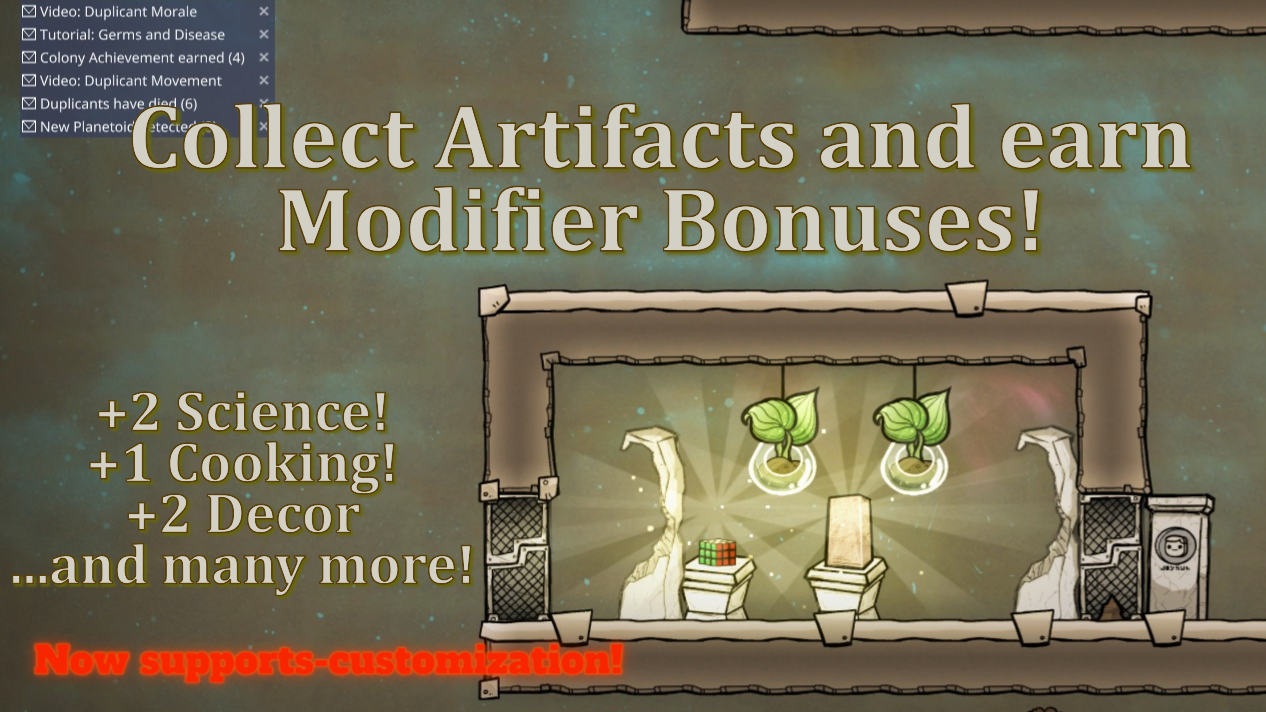
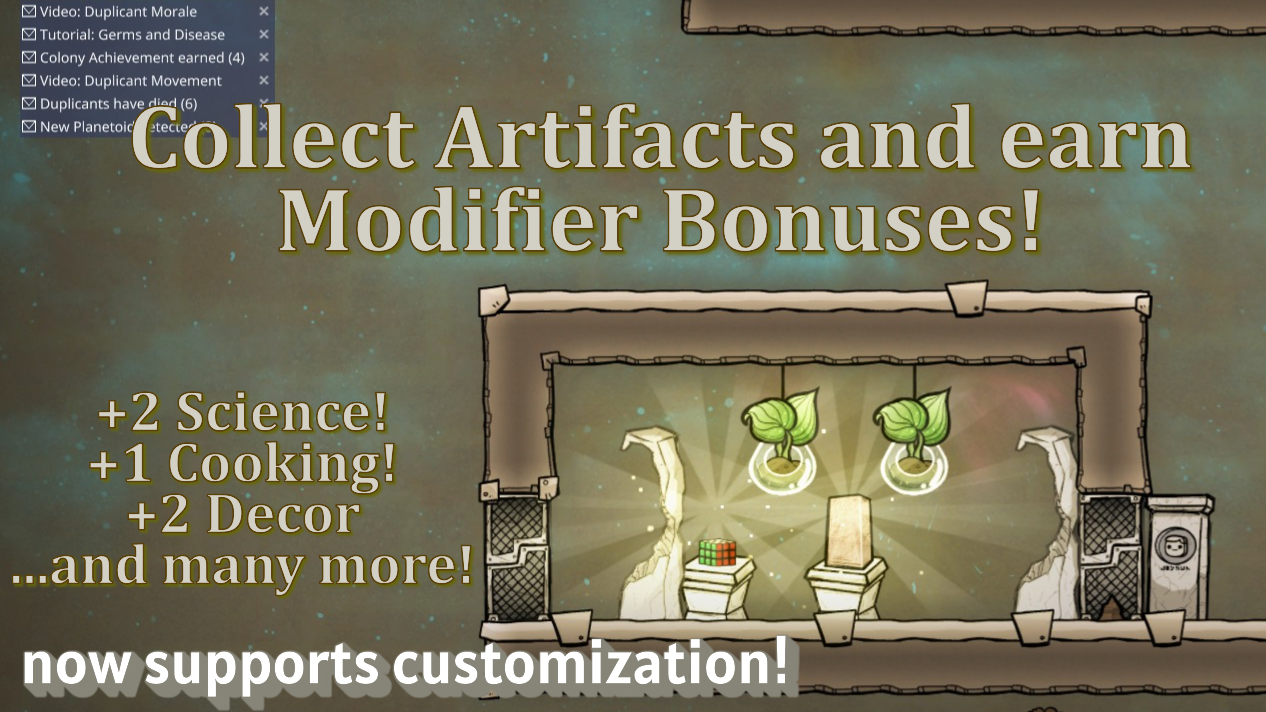
update readme and image.

Changed region(s): [[0.0, 0.8961, 0.6469, 1.0]]

diff --git a/ArtifactsPlus/README.md b/ArtifactsPlus/README.md
@@ -43,80 +43,80 @@ Modifiers can stack! Go ahead and collect and activate as many coffee mugs as yo
 
 __List of Current InGame Artifacts (as of July 2025)__
 
-artifact_sink
-artifact_rubikscube
-artifact_obelisk
-artifact_blender
-artifact_reactormodel
-artifact_sandstone
-artifact_officemug
-artifact_okayxray
-artifact_moldavite
-artifact_vhs
-artifact_saxophone
-artifact_modernart
-artifact_honeyjar
-artifact_ameliaswatch
-artifact_teapot
-artifact_brickphone
-artifact_robotarm
-artifact_shieldgenerator
-artifact_bioluminescentrock
-artifact_grubstatue
-artifact_stethoscope
-artifact_eggrock
-artifact_hatchfossil
-artifact_rocktornado
-artifact_pacupercolator
-artifact_magmalamp
-artifact_oracle
-artifact_dnamodel
-artifact_rainboweggrock
-artifact_plasmalamp
-artifact_moodring
-artifact_solarsystem
-artifact_moonmoonmoon
+- **artifact_sink**
+- **artifact_rubikscube**
+- **artifact_obelisk**
+- **artifact_blender**
+- **artifact_reactormodel**
+- **artifact_sandstone**
+- **artifact_officemug**
+- **artifact_okayxray**
+- **artifact_moldavite**
+- **artifact_vhs**
+- **artifact_saxophone**
+- **artifact_modernart**
+- **artifact_honeyjar**
+- **artifact_ameliaswatch**
+- **artifact_teapot**
+- **artifact_brickphone**
+- **artifact_robotarm**
+- **artifact_shieldgenerator**
+- **artifact_bioluminescentrock**
+- **artifact_grubstatue**
+- **artifact_stethoscope**
+- **artifact_eggrock**
+- **artifact_hatchfossil**
+- **artifact_rocktornado**
+- **artifact_pacupercolator**
+- **artifact_magmalamp**
+- **artifact_oracle**
+- **artifact_dnamodel**
+- **artifact_rainboweggrock**
+- **artifact_plasmalamp**
+- **artifact_moodring**
+- **artifact_solarsystem**
+- **artifact_moonmoonmoon**
 
 __List of Attributes That Can Be Modified:__
 
-AirConsumptionRate: Air Consumption Rate (Air Consumption determines how much Oxygen a Duplicant requires per minute to live.)
-Art: Creativity (Determines how quickly a Duplicant produces Artwork.)
-Athletics: Athletics (Determines a Duplicant's default runspeed.)
-BionicBatteryCountCapacity: Power Banks (The number of power banks this Bionic Duplicant can store)
-BionicBoosterSlots: Booster Slots (The number of boosters this Bionic Duplicant can install at once)
-Botanist: Agriculture (Determines how quickly and efficiently a Duplicant cultivates Plants.)
-Caring: Medicine (Determines a Duplicant's ability to care for sick peers.)
-CarryAmount: Carrying Capacity (Determines the maximum weight that a Duplicant can carry.)
-Construction: Construction (Determines a Duplicant's building Speed.)
-Cooking: Cuisine (Determines how quickly a Duplicant prepares Food.)
-Decor: Decor (Affects a Duplicant's Morale and their opinion of their surroundings.)
-DecorExpectation: Decor Morale Bonus (A Decor Morale Bonus allows Duplicants to receive Morale boosts from lower Decor values.)
-Digging: Excavation (Determines a Duplicant's mining speed.)
-DiseaseCureSpeed: Disease Recovery Speed Bonus (Recovery speed bonus is increased when another Duplicant provides medical care to the patient)
-DoctoredLevel: Treatment Received Effect
-FoodExpectation: Food Morale Bonus (A Food Morale Bonus allows Duplicants to receive Morale boosts from lower quality Food)
-GeneratorOutput: Power Output
-GermResistance: Germ Resistance (Duplicants with a higher Germ Resistance rating are less likely to contract germ-based Diseases.)
-Immunity: Immunity (Determines a Duplicant's Disease susceptibility and recovery time.)
-Insulation: Insulation (Highly Insulated Duplicants retain body heat easily, while low Insulation Duplicants are easier to keep cool.)
-Learning: Science (Determines how quickly a Duplicant conducts Research and gains Skill Points.)
-LifeSupport: Life Support (Determines how efficiently a Duplicant maintains Algae Terrariums, Deodorizers, and Water Sieves)
-Luminescence: Luminescence (Determines how much light a Duplicant emits.)
-Machinery: Machinery (Determines how quickly a Duplicant uses machines.)
-MachinerySpeed: Machinery Speed (Speed Bonus)
-MaxUnderwaterTravelCost: Underwater Movement (Determines a Duplicant's runspeed when submerged in Liquid)
-QualityOfLife: Morale (A Duplicant's Morale must exceed their Morale Need, or they'll begin to accumulate Stress.)
-QualityOfLifeExpectation: Morale Need (Dictates how high a Duplicant's Morale must be kept to prevent them from gaining Stress)
-RadiationRecovery: Radiation Absorption (The rate at which Radiation is neutralized within a Duplicant body.)
-RadiationResistance: Radiation Resistance (Determines how easily a Duplicant repels Radiation Sickness.)
-Ranching: Husbandry (Determines how efficiently a Duplicant tends Critters.)
-RoomTemperaturePreference: Temperature Preference (Determines the minimum body Temperature a Duplicant prefers to maintain.)
-ScaldingThreshold: Scalding Threshold (Determines the Temperature at which a Duplicant will get burned.)
-ScoldingThreshold: Frostbite Threshold (Determines the Temperature at which a Duplicant will get frostbitten.)
-Sneezyness: Sneeziness (Determines how frequently a Duplicant sneezes.)
-SpaceNavigation: Piloting (Determines how long it takes a Duplicant to complete a space mission.)
-Strength: Strength (Determines a Duplicant's Carrying Capacity and cleaning speed.)
-ThermalConductivityBarrier: Insulation Thickness (Determines how quickly a Duplicant retains or loses body Heat in any given area.)
-Toggle: Toggle (Determines how efficiently a Duplicant tunes machinery, flips switches, and sets sensors.)
-ToiletEfficiency: Bathroom Use Speed (Determines how long a Duplicant needs to do their "business".)
-TransitTubeTravelSpeed: Transit Speed (Determines a Duplicant's default Transit Tube travel speed.)
+- **AirConsumptionRate**: Air Consumption Rate (Air Consumption determines how much Oxygen a Duplicant requires per minute to live.)
+- **Art**: Creativity (Determines how quickly a Duplicant produces Artwork.)
+- **Athletics**: Athletics (Determines a Duplicant's default runspeed.)
+- **BionicBatteryCountCapacity**: Power Banks (The number of power banks this Bionic Duplicant can store)
+- **BionicBoosterSlots**: Booster Slots (The number of boosters this Bionic Duplicant can install at once)
+- **Botanist**: Agriculture (Determines how quickly and efficiently a Duplicant cultivates Plants.)
+- **Caring**: Medicine (Determines a Duplicant's ability to care for sick peers.)
+- **CarryAmount**: Carrying Capacity (Determines the maximum weight that a Duplicant can carry.)
+- **Construction**: Construction (Determines a Duplicant's building Speed.)
+- **Cooking**: Cuisine (Determines how quickly a Duplicant prepares Food.)
+- **Decor**: Decor (Affects a Duplicant's Morale and their opinion of their surroundings.)
+- **DecorExpectation**: Decor Morale Bonus (A Decor Morale Bonus allows Duplicants to receive Morale boosts from lower Decor values.)
+- **Digging**: Excavation (Determines a Duplicant's mining speed.)
+- **DiseaseCureSpeed**: Disease Recovery Speed Bonus (Recovery speed bonus is increased when another Duplicant provides medical care to the patient)
+- **DoctoredLevel**: Treatment Received Effect
+- **FoodExpectation**: Food Morale Bonus (A Food Morale Bonus allows Duplicants to receive Morale boosts from lower quality Food)
+- **GeneratorOutput**: Power Output
+- **GermResistance**: Germ Resistance (Duplicants with a higher Germ Resistance rating are less likely to contract germ-based Diseases.)
+- **Immunity**: Immunity (Determines a Duplicant's Disease susceptibility and recovery time.)
+- **Insulation**: Insulation (Highly Insulated Duplicants retain body heat easily, while low Insulation Duplicants are easier to keep cool.)
+- **Learning**: Science (Determines how quickly a Duplicant conducts Research and gains Skill Points.)
+- **LifeSupport**: Life Support (Determines how efficiently a Duplicant maintains Algae Terrariums, Deodorizers, and Water Sieves)
+- **Luminescence**: Luminescence (Determines how much light a Duplicant emits.)
+- **Machinery**: Machinery (Determines how quickly a Duplicant uses machines.)
+- **MachinerySpeed**: Machinery Speed (Speed Bonus)
+- **MaxUnderwaterTravelCost**: Underwater Movement (Determines a Duplicant's runspeed when submerged in Liquid)
+- **QualityOfLife**: Morale (A Duplicant's Morale must exceed their Morale Need, or they'll begin to accumulate Stress.)
+- **QualityOfLifeExpectation**: Morale Need (Dictates how high a Duplicant's Morale must be kept to prevent them from gaining Stress)
+- **RadiationRecovery**: Radiation Absorption (The rate at which Radiation is neutralized within a Duplicant body.)
+- **RadiationResistance**: Radiation Resistance (Determines how easily a Duplicant repels Radiation Sickness.)
+- **Ranching**: Husbandry (Determines how efficiently a Duplicant tends Critters.)
+- **RoomTemperaturePreference**: Temperature Preference (Determines the minimum body Temperature a Duplicant prefers to maintain.)
+- **ScaldingThreshold**: Scalding Threshold (Determines the Temperature at which a Duplicant will get burned.)
+- **ScoldingThreshold**: Frostbite Threshold (Determines the Temperature at which a Duplicant will get frostbitten.)
+- **Sneezyness**: Sneeziness (Determines how frequently a Duplicant sneezes.)
+- **SpaceNavigation**: Piloting (Determines how long it takes a Duplicant to complete a space mission.)
+- **Strength**: Strength (Determines a Duplicant's Carrying Capacity and cleaning speed.)
+- **ThermalConductivityBarrier**: Insulation Thickness (Determines how quickly a Duplicant retains or loses body Heat in any given area.)
+- **Toggle**: Toggle (Determines how efficiently a Duplicant tunes machinery, flips switches, and sets sensors.)
+- **ToiletEfficiency**: Bathroom Use Speed (Determines how long a Duplicant needs to do their "business".)
+- **TransitTubeTravelSpeed**: Transit Speed (Determines a Duplicant's default Transit Tube travel speed.)
